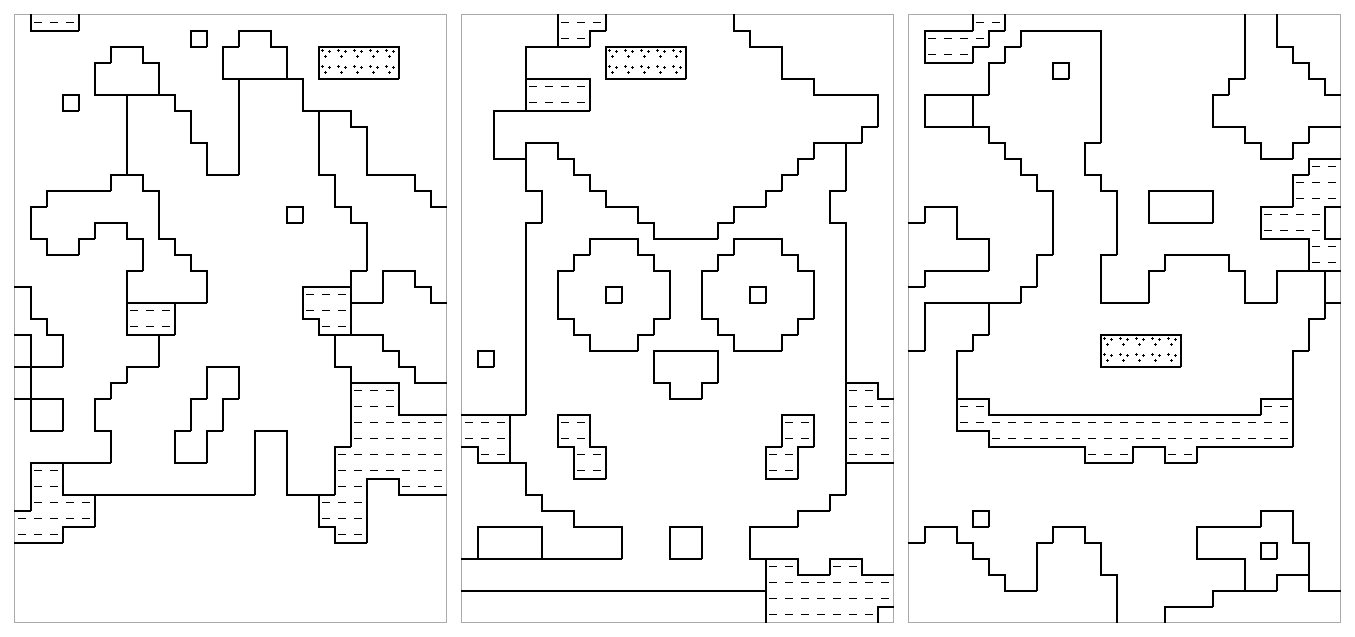
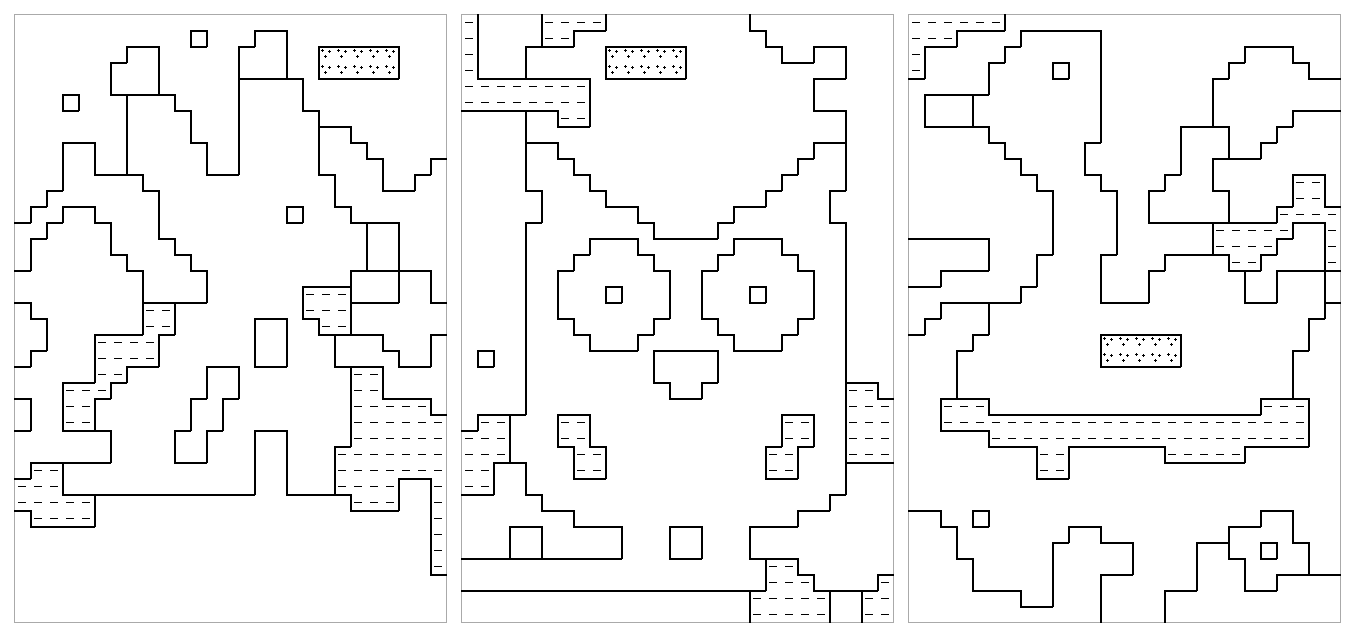
Subject set v4 draft: internal lines, scene cues, animal masks, matched budgets
Owl: ear tufts, eyes with pupils, beak, wing lines, legs on a branch on
snow, moon. Hare: hedge band with crown skyline, shadow stripes, mist,
ear tip, haunch and leg lines, tail, eye. Swan: facing left, beak, eye,
wing bump, tail, water band with reflection. Edge and corner budgets
within a spread of 6 across the three pictures; per-picture animal
masks (tiers-X-animal.txt) for motif placement. README section added.

Claude-Session: https://claude.ai/code/session_01V7FKm6ieSF4AmKKv53YUgA

diff --git a/experiments/011-subjects/make_targets_v4_draft.py b/experiments/011-subjects/make_targets_v4_draft.py
@@ -54,7 +54,7 @@ SOFT_RADIUS = 2   # v4 draft: 2 = cells on a drawn boundary and their neighbours
 SKETCHES = {}  # filled below
 
 # Hand-drawn 27 x 38 sketches, rows top to bottom. D M S as themselves, '.' = L, 'w' = W.
-# Lower case 'd' / 'm' / ',' = D / M / L locked: a drawn feature the balancer must not touch
+# Lower case 'd' / 'm' / ',' / '~' = D / M / L / W locked (v4 draft adds '~'): a drawn feature the balancer must not touch
 # (the hare's tree, the swan's clouds, the dots and their neighbours). The figure and S are always
 # locked.
 SKETCHES["A"] = """
@@ -70,20 +70,20 @@ wwwwww....,d,..............
 .DDDD..MMMMM..MMMMMDDDDDDDD
 DDDDDDDDMMMMMMMMMMMMDDDDDDD
 DDDDDDDDDMMMMMMMMMMMDDDDDDD
-DDDDDDDDDMMMMMMMMdMMMDDDDDD
-DDDDDDDDDMMMMMMMMMMMMMDDDDD
-..DDDDDDDDMMMMMMMMMMMMDDDDD
+DDDDDDDddMMMMMMMMdMMMDDDDDD
+DDDDDDDddMMMMMMMMMMMMMDDDDD
+..DDDDDDddMMMMMMMMMMMMDDDDD
 ......DDDDDMMMMMMMMMMMDDDDD
 ......DDDDDDMMMMMMMMMDDDDDD
 ......DDDDDDMMMMMMwwwDDDDDD
 .......wwwMMMMMMMMwww......
-.......wwwMMMMMMMMMww......
-DDDD.....MMMMMMMMMMMDDDDDDD
-DDDD.....MMMMMMMMMMMDDDDDDD
-.......MMMMMddMMMMMMMwwwwww
-......MMMMMMddMMMMMMMwwwwww
-DDD..MMMMMMddMMMMMMMMwwwwww
-DDD..MMMMMMddMMMMMMMMwwwwww
+.......wwwMMMMMddMMww......
+DDDD..wwwMMMMMMddMMMDDDDDDD
+DDDD..wwwMMMMMMddMMMDDDDDDD
+.....wwMMMMMddMMMMMMMwwwwww
+....wwMMMMMMddMMMMMMMwwwwww
+DDDwwMMMMMMddMMMMMMMMwwwwww
+DDDwwMMMMMMddMMMMMMMMwwwwww
 wwww,,MMMMddMMMddMMMMwwwwww
 wwww,,MMMMddMMMddMMMwwwwwww
 wwwMMMMMMMMMMMMddMMMwwwwwww
@@ -99,14 +99,14 @@ DDDDDDDDDDDDDDDDDDDDDDDDDDD
 """
 
 SKETCHES["B"] = """
-wwwwwww..............mmmmmm
-wwwwww................mmmmm
-mmmm.....SSSSS.........mmmm
-mmmm.....SSSSS.........mmmm
-wwwwwww.................mmm
-wwwwwww.................mmm
-mmmm....................mmm
-mmmm....................mmm
+wwwwwww..............MMMMMM
+wwwwww................MMMMM
+MMMM.....SSSSS.........MMMM
+MMMM.....SSSSS.........MMMM
+wwwwwww.................MMM
+wwwwwww.................MMM
+MMMM....................MMM
+MMMM....................MMM
 MMMMDD................DDMMM
 MMMMDDD..............DDDMMM
 MMMMDDDD............DDDDMMM
@@ -140,16 +140,16 @@ DDDDDDDDDDDDDDDDDDDwwwwwwww
 """
 
 SKETCHES["C"] = """
-wwwDDDDDDDDDDDDDDDD,,,,,,DD
-wwwDDDD.....DDDDDD,,,,,,,,D
-DDDDDD......DDDDD,,,,,,,,,,
-DDDDD....d..DDDDD,,,,,,,,,,
-ddddd.......DDDDD,,,,,,,,,,
-dmmm........DDDDD,,,,,,,,,,
-dmmm........DDDDD,,,,,,,,,,
-ddddd.......DDDDD,,,,,,,,,,
-DDDDDD.....DDDDDDD,,,,,,,,D
-DDDDDDD....DDDDDDDD,,,,,,DD
+wwwDDDDDDDDDDDDDDDDD....DDD
+wwwDDDD.....DDDDDDD.......D
+DDDDDD......DDDDDD.........
+DDDDD....d..DDDDDD.........
+ddddd.......DDDDD..........
+dmmm........DDDDD..........
+dmmm........DDDDDD.........
+ddddd.......DDDDDD........D
+DDDDDD.....DDDDDDDD.......D
+DDDDDDD....DDDDDDDDDD...DDD
 D..DDDDD....DDDDDDDDDDDDDDD
 D..DDDDDD....DDmmmmDDDDDDDD
 DDDDDDDDD....DDmmmmDDDwwwww
@@ -191,7 +191,7 @@ for i, (a, b) in enumerate(PAIRS + FORBIDDEN):
     PAIR_ID[CODE[a], CODE[b]] = PAIR_ID[CODE[b], CODE[a]] = i
 NP = len(PAIRS) + len(FORBIDDEN)
 SKETCH_ROWS, SKETCH_COLS = 38, 27   # native size of the sketches
-SKETCH_CHAR = {".": "L", ",": "L", "d": "D", "m": "M", "w": "W", "D": "D", "M": "M", "S": "S"}
+SKETCH_CHAR = {".": "L", ",": "L", "d": "D", "m": "M", "w": "W", "~": "W", "D": "D", "M": "M", "S": "S"}
 
 
 def parse(text):
@@ -199,7 +199,7 @@ def parse(text):
     rows = [r.strip() for r in text.strip().splitlines()]
     assert len(rows) == SKETCH_ROWS and all(len(r) == SKETCH_COLS for r in rows), [len(r) for r in rows]
     t = np.array([[CODE[SKETCH_CHAR[ch]] for ch in r] for r in rows], np.int8)
-    locked = np.array([[ch in "dm," for ch in r] for r in rows])
+    locked = np.array([[ch in "dm,~" for ch in r] for r in rows])   # v4 draft: "~" = locked W
     return t, locked
 
 

diff --git a/experiments/011-subjects/README.md b/experiments/011-subjects/README.md
@@ -88,3 +88,31 @@ All on `27x38-v2`, tray border, quarter rotation, cell 21; full and ink renders 
   re-rendered from the saved solution): 68 interior flat seams per board; straight runs of 3 or more
   seams: A 1 (one vertical run of 3), B 0, C 0. The seams are scattered as dominoes, L-trominoes and
   2x2 blocks, so the physical grid tell from seams is small. Andro profiles draw as outward bumps.
+
+## v4 draft (27x38-v4-draft)
+
+`python3 make_targets_v4_draft.py` (about 7 min on 4 cores) is a copy of v2 with redrawn animals and
+scene cues, following blind-test-v2.md and evaluation-v6.md. The method is unchanged, except that the
+annealer may move cells within 2 of a drawn line (SOFT_RADIUS 2), and `~` in a sketch now marks a locked
+W cell. Internal lines are bands at least 2 cells wide, because 1-cell strips are anomalies.
+- **Owl (B):** slanted ear tufts, 7-wide round eyes with single-cell pupils (dot pieces), a 4-4-2
+  pointed M beak, two stepped W wing lines (the W chest read as a mouth, so it was dropped), and legs
+  gripping a branch that lies on the snow. The moon disc is behind the head, with a crater band (S).
+- **Hare (A):** the dark tier is a hedge band with a crown skyline above it, long shadow stripes across
+  a sunlit meadow, and a foreground shadow band. Mist (W) lies beside the hare. The hare has a dark
+  ear tip, haunch, shoulder and leg lines (D), a white tail (L) and the dot eye. It is cropped at row 29.
+- **Swan (C):** redrawn facing left, with an S neck, an olive M beak, a dot eye, a raised wing bump, a
+  pointed tail and an S wing line. It floats in a 2–3-row W water band with a reflection drip.
+- **S set:** one 2 × 5 band per picture: starlings (A), moon craters (B), wing line (C).
+- **Dots:** per picture, two D-on-L dots (crows; pupils; eye and a duck on a glint) and one D-on-M
+  dot (hare eye; bat; duck).
+- **Budgets:** counts D/M/W/L/S are 362/271/91/292/10, with a spread of 1 or less. Edge spreads are
+  D-M 6, W-L 5 and 4 or less for every other pair; corner spreads are 4 or less. S-L is 14/8 in every
+  picture. There are no caps, strips or pinches.
+- **Animal masks:** `tiers-X-animal.txt` (A = animal). Each is the figure with its holes (eyes, beak,
+  lines), plus the locked lines touching it (hare ear tip, leg line and tail; swan beak). The owl's
+  mask excludes the branch and the sky between its legs.
+- **Risks:** the annealer moved 121/64/134 cells and roughens the background shapes: the hedge is
+  ragged, the owl's moon is a wide cap rather than a round disc, and the swan's moon is scalloped.
+  Straight runs are up to 19 (the locked branch), 45° runs in D-L are 37/64/37, and there are 72–83
+  junction cells. Not yet blind-tested.
